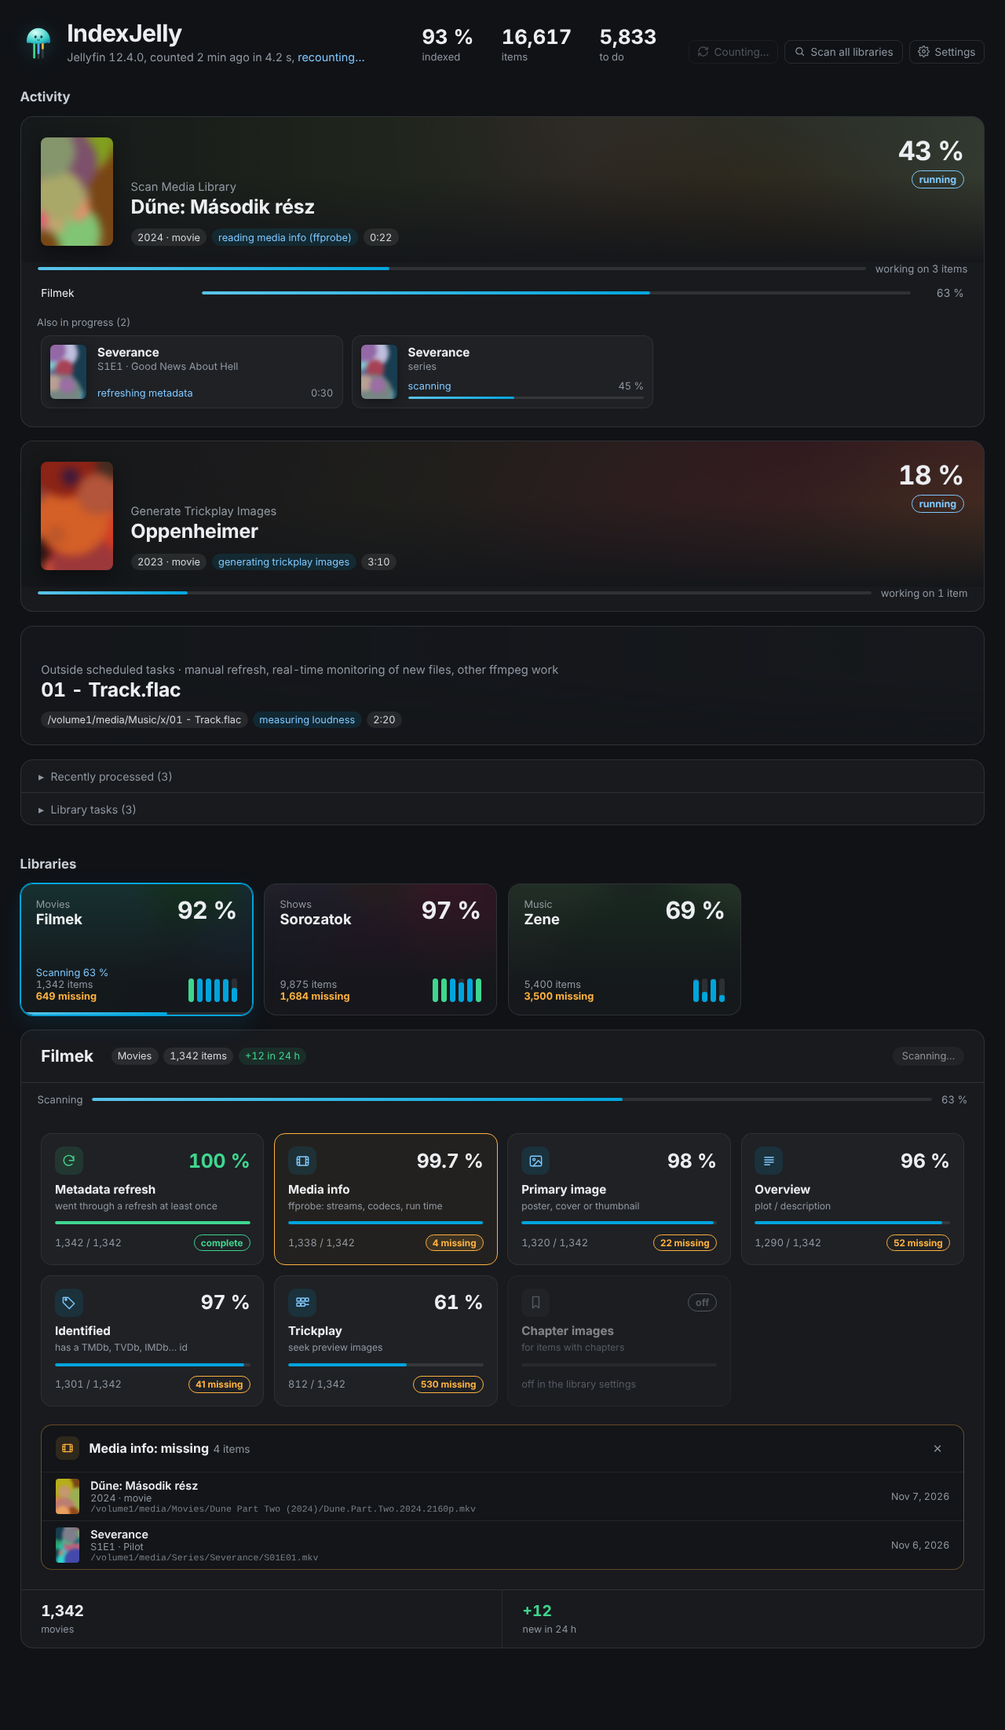
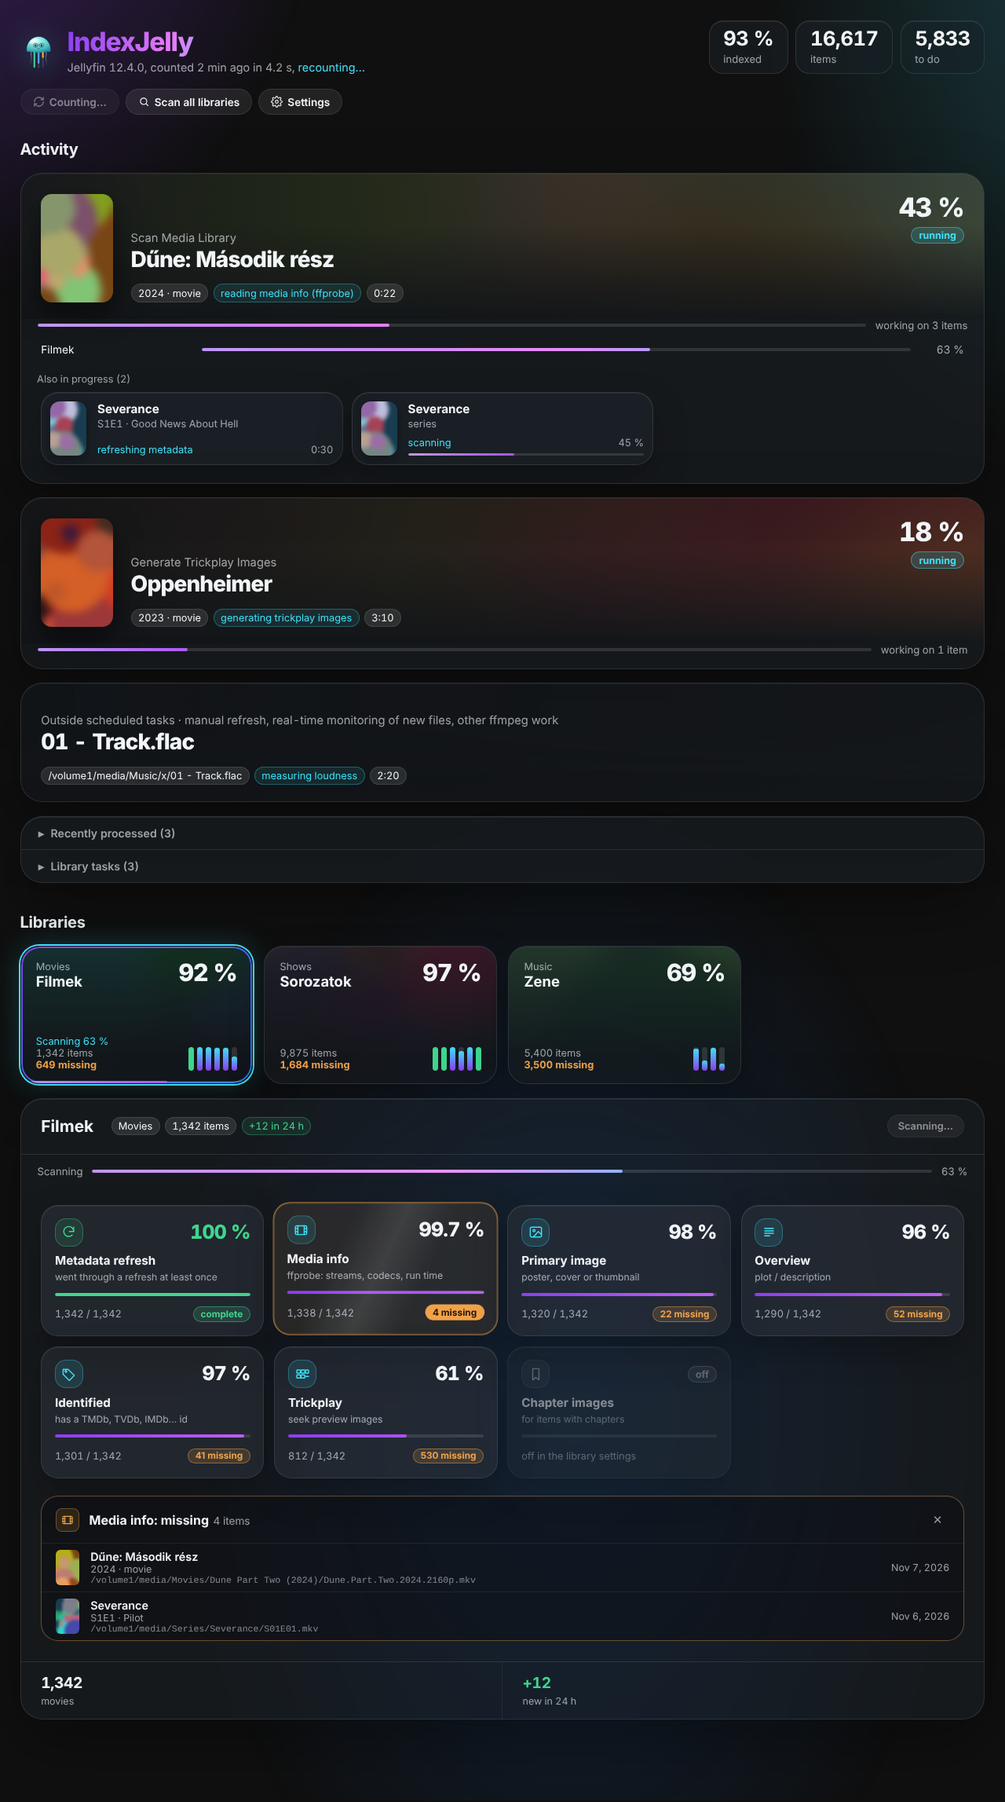
SeeJelly look (v0.5.0)
- Glass panels on a slowly drifting violet/cyan glow, jellyfish mark
  and gradient wordmark in the header, totals as glass tiles
- Pill buttons, switches in the settings, cyan accent, gradient
  progress bars (green when complete) with a running light
- Tiles and cards lift with a sheen on hover; gradient ring on the
  selected library; filled labels
- Phone: totals side by side, smaller buttons; reduced motion respected
- Version 0.5.0.0; README, CHANGELOG (EN/HU) and screenshot

diff --git a/Web/indexjelly.html b/Web/indexjelly.html
@@ -8,17 +8,23 @@
 <div id="IndexJellyPage" data-role="page" class="page type-interior pluginConfigurationPage" data-title="IndexJelly">
 <style>
 #IndexJellyPage {
-    --ij-text: #eceef1;
-    --ij-muted: #9198a1;
-    --ij-soft: #c9ced4;
+    --ij-text: #f2f5f7;
+    --ij-muted: rgba(235,240,245,.64);
+    --ij-soft: rgba(235,240,245,.82);
     --ij-faint: rgba(255,255,255,.07);
     --ij-line: rgba(255,255,255,.10);
-    --ij-surface: rgba(255,255,255,.035);
+    --ij-line-hi: rgba(255,255,255,.22);
+    --ij-surface: rgba(28,33,38,.58);
+    --ij-accent: #3FE0F7;
+    --ij-accent-ink: #061f33;
+    --ij-gradient: linear-gradient(100deg, #8B3FF0 0%, #E57CF7 35%, #3FE0F7 70%, #1F7CF0 100%);
+    --ij-focus: linear-gradient(135deg, #8B3FF0, #1F7CF0);
+    --ij-ease: cubic-bezier(.2, .8, .2, 1);
     --ij-done: #3fd68f;
-    --ij-warn: #ffb23f;
-    --ij-fail: #ff6f61;
-    --ij-op: #7fc8ff;
-    --ij-brand: #00a4dc;
+    --ij-warn: #f0a24a;
+    --ij-fail: #ff6b6b;
+    --ij-op: #3FE0F7;
+    --ij-brand: #3FE0F7;
     --ij-bg: #101216;
 }
 #IndexJellyPage .ij { max-width: 1280px; margin: 0 auto; padding: 1.6em 1.6em 4em; color: var(--ij-text); font-variant-numeric: tabular-nums; }
@@ -219,6 +225,115 @@
 #IndexJellyPage .ij-warn { padding: .8em 1.2em; border-radius: 10px; background: rgba(255,178,63,.1); color: #ffd08a; margin-bottom: 1.5em; font-size: .88em; }
 #IndexJellyPage button:focus-visible, #IndexJellyPage summary:focus-visible, #IndexJellyPage input:focus-visible, #IndexJellyPage a:focus-visible { outline: 2px solid var(--ij-brand); outline-offset: 2px; }
 
+/* ================= SeeJelly look (as in StreamJelly 1.8+): glass panels on a soft violet / cyan glow ================= */
+#IndexJellyPage .ij { position: relative; isolation: isolate; font-family: -apple-system, BlinkMacSystemFont, "SF Pro Text", "Segoe UI", Roboto, "Helvetica Neue", Arial, sans-serif; -webkit-font-smoothing: antialiased; }
+#IndexJellyPage .ij-glow { position: absolute; inset: -2em 0 0; z-index: -1; pointer-events: none; overflow: hidden; border-radius: 0 0 40px 40px; }
+#IndexJellyPage .ij-glow::before { content: ""; position: absolute; inset: -20%;
+    background:
+        radial-gradient(38% 30% at 12% 6%, rgba(139,63,240,.38), transparent 70%),
+        radial-gradient(34% 28% at 92% 14%, rgba(63,224,247,.20), transparent 70%),
+        radial-gradient(40% 34% at 55% 70%, rgba(31,124,240,.22), transparent 70%);
+    animation: ij-drift 40s ease-in-out infinite alternate; }
+@keyframes ij-drift { to { transform: translate(3%, 2%) scale(1.06); } }
+
+/* page header: mark, gradient wordmark, totals as glass tiles, pill buttons */
+#IndexJellyPage .ij-logo { width: 2.9em; height: 2.9em; filter: drop-shadow(0 6px 18px rgba(63,224,247,.35)); }
+#IndexJellyPage .ij-bar h1 { font-size: 2.1em; font-weight: 800; letter-spacing: -.035em; background: var(--ij-gradient); -webkit-background-clip: text; background-clip: text; color: transparent; }
+#IndexJellyPage .ij-totals { gap: .6em; }
+#IndexJellyPage .ij-total { padding: .55em 1.1em .6em; border-radius: 18px; background: var(--ij-surface); border: 1px solid var(--ij-line); backdrop-filter: blur(24px) saturate(1.5); -webkit-backdrop-filter: blur(24px) saturate(1.5); box-shadow: inset 0 1px 0 rgba(255,255,255,.08); }
+#IndexJellyPage .ij-total b { font-weight: 750; letter-spacing: -.02em; }
+#IndexJellyPage .ij-btn { border-radius: 999px; padding: .55em 1.1em; background: rgba(255,255,255,.08); border-color: var(--ij-line); color: var(--ij-text); font-weight: 600; transition: background .25s var(--ij-ease), color .25s var(--ij-ease); }
+#IndexJellyPage .ij-btn:hover { background: rgba(255,255,255,.14); color: var(--ij-text); }
+#IndexJellyPage .ij-btn[aria-expanded="true"] { background: #fff; color: #000; border-color: #fff; }
+#IndexJellyPage .ij-pillbtn { background: rgba(255,255,255,.10); border: 1px solid var(--ij-line); font-weight: 600; padding: .45em 1em; transition: background .25s var(--ij-ease), color .25s var(--ij-ease); }
+#IndexJellyPage .ij-pillbtn:hover:not(:disabled) { background: #fff; color: #000; }
+
+/* settings: glass, switches, round fields */
+#IndexJellyPage .ij-settings { border-radius: 22px; padding: 1.1em 1.4em; background: var(--ij-surface); border-color: var(--ij-line); backdrop-filter: blur(28px) saturate(1.5); -webkit-backdrop-filter: blur(28px) saturate(1.5); box-shadow: inset 0 1px 0 rgba(255,255,255,.08), 0 20px 50px rgba(0,0,0,.3); }
+#IndexJellyPage .ij-settings label { color: var(--ij-text); gap: .6em; cursor: pointer; }
+#IndexJellyPage .ij-settings input[type=checkbox] { appearance: none; -webkit-appearance: none; width: 2.4em; height: 1.4em; margin: 0; border-radius: 999px; background: rgba(255,255,255,.16); position: relative; cursor: pointer; transition: background .25s var(--ij-ease); flex: none; }
+#IndexJellyPage .ij-settings input[type=checkbox]::after { content: ""; position: absolute; top: .15em; left: .15em; width: 1.1em; height: 1.1em; border-radius: 50%; background: #fff; transition: transform .25s var(--ij-ease); box-shadow: 0 1px 3px rgba(0,0,0,.4); }
+#IndexJellyPage .ij-settings input[type=checkbox]:checked { background: var(--ij-focus); }
+#IndexJellyPage .ij-settings input[type=checkbox]:checked::after { transform: translateX(1em); }
+#IndexJellyPage .ij-settings input[type=number] { border-radius: 999px; text-align: center; background: rgba(255,255,255,.08); }
+#IndexJellyPage .ij-save { border-radius: 999px; background: var(--ij-focus); padding: .55em 1.4em; }
+
+/* glass panels */
+#IndexJellyPage .ij-panel { border-radius: 28px; background: var(--ij-surface); border-color: var(--ij-line); backdrop-filter: blur(30px) saturate(1.5); -webkit-backdrop-filter: blur(30px) saturate(1.5); box-shadow: inset 0 1px 0 rgba(255,255,255,.08), 0 30px 80px rgba(0,0,0,.35); }
+#IndexJellyPage .ij-hero-bg { opacity: .5; }
+#IndexJellyPage .ij-hero-bg::after { background: linear-gradient(90deg, rgba(14,16,20,.94) 0%, rgba(14,16,20,.7) 45%, rgba(14,16,20,.35) 100%), linear-gradient(0deg, rgba(22,26,30,1) 0%, rgba(22,26,30,0) 65%); }
+#IndexJellyPage .ij-poster { border-radius: 14px; box-shadow: 0 14px 34px rgba(0,0,0,.5); }
+#IndexJellyPage .ij-name { font-size: 1.75em; font-weight: 800; letter-spacing: -.03em; }
+#IndexJellyPage .ij-hero.short .ij-name { font-size: 1.3em; }
+#IndexJellyPage .ij-chip { background: rgba(255,255,255,.10); border: 1px solid var(--ij-line); color: var(--ij-text); }
+#IndexJellyPage .ij-chip.op { color: var(--ij-accent); background: rgba(63,224,247,.10); border-color: rgba(63,224,247,.30); }
+#IndexJellyPage .ij-chip.new { border-color: rgba(63,214,143,.30); }
+#IndexJellyPage .ij-section > h2 { font-size: 1.25em; font-weight: 750; letter-spacing: -.015em; color: var(--ij-text); }
+#IndexJellyPage .ij-big { font-weight: 800; letter-spacing: -.03em; }
+
+/* labels: filled, with a ring of their own colour */
+#IndexJellyPage .ij-pill { border: 0; background: color-mix(in srgb, currentColor 16%, transparent); box-shadow: inset 0 0 0 1px color-mix(in srgb, currentColor 45%, transparent); padding: .25em .8em; }
+#IndexJellyPage .ij-pill.run { color: var(--ij-accent); }
+#IndexJellyPage button.ij-pill:hover, #IndexJellyPage button.ij-pill[aria-expanded="true"] { background: var(--ij-warn); color: #2a1600; box-shadow: none; }
+
+/* progress: the brand gradient, green once complete */
+#IndexJellyPage .ij-track { background: rgba(255,255,255,.12); }
+#IndexJellyPage .ij-track b { background: var(--ij-gradient); background-size: 100vw 100%; }
+#IndexJellyPage .ij-track.done b { background: var(--ij-done); }
+/* running: the gradient with a light running over it */
+#IndexJellyPage .ij-track.live b { background-image: linear-gradient(90deg, rgba(255,255,255,0) 0, rgba(255,255,255,.45) 50%, rgba(255,255,255,0) 100%), var(--ij-gradient);
+    background-size: 200% 100%, 100vw 100%; background-repeat: no-repeat, no-repeat; animation: ij-shine2 1.6s linear infinite; }
+@keyframes ij-shine2 { from { background-position: 200% 0, 0 0; } to { background-position: -200% 0, 0 0; } }
+#IndexJellyPage .ij-eq i { background: rgba(255,255,255,.12); }
+#IndexJellyPage .ij-eq i b { background: linear-gradient(0deg, #8B3FF0, #3FE0F7); }
+#IndexJellyPage .ij-eq i.done b { background: var(--ij-done); }
+
+/* cards and tiles lift with a sheen, like SeeJelly's focus */
+#IndexJellyPage .ij-card, #IndexJellyPage .ij-tile, #IndexJellyPage .ij-check {
+    border-radius: 22px; background: var(--ij-surface); border-color: var(--ij-line);
+    backdrop-filter: blur(28px) saturate(1.5); -webkit-backdrop-filter: blur(28px) saturate(1.5);
+    box-shadow: inset 0 1px 0 rgba(255,255,255,.08), 0 18px 44px rgba(0,0,0,.28); position: relative; overflow: hidden;
+    transition: transform .35s var(--ij-ease), box-shadow .35s var(--ij-ease), border-color .35s var(--ij-ease); }
+#IndexJellyPage .ij-card::after, #IndexJellyPage .ij-tile::after, #IndexJellyPage .ij-check::after { content: ""; position: absolute; inset: 0; pointer-events: none; opacity: 0; transition: opacity .35s var(--ij-ease);
+    background: linear-gradient(115deg, transparent 30%, rgba(255,255,255,.10) 48%, transparent 66%); }
+#IndexJellyPage .ij-card:hover, #IndexJellyPage .ij-tile:hover, #IndexJellyPage .ij-tile:focus-visible, #IndexJellyPage .ij-check:hover {
+    transform: translateY(-3px) scale(1.01); border-color: var(--ij-line-hi); box-shadow: inset 0 1px 0 rgba(255,255,255,.12), 0 26px 60px rgba(0,0,0,.4); }
+#IndexJellyPage .ij-card:hover::after, #IndexJellyPage .ij-tile:hover::after, #IndexJellyPage .ij-tile:focus-visible::after, #IndexJellyPage .ij-check:hover::after { opacity: 1; }
+#IndexJellyPage .ij-cover { border-radius: 12px; }
+#IndexJellyPage .ij-tile { border-radius: 24px; min-height: 176px; }
+#IndexJellyPage .ij-tile-bg { opacity: .42; }
+#IndexJellyPage .ij-tile-pct { font-weight: 800; letter-spacing: -.035em; }
+/* the selected library: a ring in the focus gradient */
+#IndexJellyPage .ij-tile.sel { border-color: transparent; box-shadow: 0 0 0 2px #3FE0F7, 0 0 34px rgba(63,224,247,.22), 0 26px 60px rgba(0,0,0,.4); }
+#IndexJellyPage .ij-tile.sel::before { content: ""; position: absolute; inset: 0; border-radius: inherit; padding: 2px; pointer-events: none;
+    background: var(--ij-focus); -webkit-mask: linear-gradient(#000 0 0) content-box, linear-gradient(#000 0 0); -webkit-mask-composite: xor; mask-composite: exclude; }
+#IndexJellyPage .ij-check { background: rgba(255,255,255,.045); }
+#IndexJellyPage .ij-check.sel { border-color: rgba(240,162,74,.6); background: rgba(240,162,74,.08); box-shadow: inset 0 0 0 1px rgba(240,162,74,.35), 0 18px 44px rgba(0,0,0,.28); }
+#IndexJellyPage .ij-check.off:hover { transform: none; }
+#IndexJellyPage .ij-ico { border-radius: 14px; background: rgba(63,224,247,.12); color: var(--ij-accent); box-shadow: inset 0 0 0 1px rgba(63,224,247,.3); }
+#IndexJellyPage .ij-check.complete .ij-ico { box-shadow: inset 0 0 0 1px rgba(63,214,143,.35); }
+#IndexJellyPage .ij-check.off .ij-ico { box-shadow: inset 0 0 0 1px var(--ij-line); }
+#IndexJellyPage .ij-check-pct { font-weight: 800; letter-spacing: -.03em; }
+
+/* folded panels, missing list, stats */
+#IndexJellyPage details.ij-more-d > summary { font-weight: 600; }
+#IndexJellyPage details.ij-more-d[open] > summary { color: var(--ij-text); }
+#IndexJellyPage .ij-missing { border-radius: 22px; border-color: rgba(240,162,74,.4); background: rgba(10,12,15,.45); box-shadow: inset 0 1px 0 rgba(255,255,255,.05); }
+#IndexJellyPage .ij-missing-head .ij-ico { box-shadow: inset 0 0 0 1px rgba(240,162,74,.35); }
+#IndexJellyPage .ij-mrow i { border-radius: 6px; }
+#IndexJellyPage .ij-x { border-radius: 50%; }
+#IndexJellyPage .ij-x:hover { background: #fff; color: #000; }
+#IndexJellyPage .ij-stat b { font-weight: 750; letter-spacing: -.02em; }
+#IndexJellyPage .ij-idle-dot { background: var(--ij-accent); box-shadow: 0 0 0 5px rgba(63,224,247,.14), 0 0 18px rgba(63,224,247,.5); }
+#IndexJellyPage .ij-empty { border-radius: 28px; background: var(--ij-surface); border: 1px solid var(--ij-line); backdrop-filter: blur(28px); -webkit-backdrop-filter: blur(28px); }
+#IndexJellyPage .ij-error, #IndexJellyPage .ij-warn { border-radius: 20px; }
+#IndexJellyPage button:focus-visible, #IndexJellyPage summary:focus-visible, #IndexJellyPage input:focus-visible, #IndexJellyPage a:focus-visible { outline: 2px solid var(--ij-accent); outline-offset: 3px; }
+@media (prefers-reduced-motion: reduce) {
+    #IndexJellyPage .ij-glow::before, #IndexJellyPage .ij-track.live b { animation: none; }
+    #IndexJellyPage .ij-card, #IndexJellyPage .ij-tile, #IndexJellyPage .ij-check, #IndexJellyPage .ij-card::after, #IndexJellyPage .ij-tile::after, #IndexJellyPage .ij-check::after { transition: none; }
+    #IndexJellyPage .ij-card:hover, #IndexJellyPage .ij-tile:hover, #IndexJellyPage .ij-tile:focus-visible, #IndexJellyPage .ij-check:hover { transform: none; }
+}
+
 @media (max-width: 760px) {
     #IndexJellyPage .ij { padding: 1em .8em 3em; }
     #IndexJellyPage .ij-totals { margin-left: 0; gap: 1.6em; }
@@ -251,24 +366,21 @@
     #IndexJellyPage .ij-check.off .ij-check-foot > span:first-child { display: inline; }
     #IndexJellyPage .ij-check-foot { justify-content: flex-start; }
     #IndexJellyPage .ij-logo { width: 38px; height: 38px; }
+    #IndexJellyPage .ij-totals { width: 100%; display: grid; grid-template-columns: repeat(3, minmax(0, 1fr)); }
+    #IndexJellyPage .ij-total { padding: .5em .8em; }
+    #IndexJellyPage .ij-total b { font-size: 1.3em; white-space: nowrap; }
+    #IndexJellyPage .ij-btn { padding: .45em .85em; font-size: .8em; }
+    #IndexJellyPage .ij-bar h1 { font-size: 1.8em; }
 }
 </style>
 
 <div data-role="content">
 <div class="content-primary ij">
+    <div class="ij-glow" aria-hidden="true"></div>
 
     <header class="ij-bar">
         <div class="ij-brand">
-            <svg class="ij-logo" viewBox="0 0 512 512" aria-hidden="true">
-                <defs><radialGradient id="ijDome" cx="38%" cy="28%" r="78%"><stop offset="0" stop-color="#e2fffb"/><stop offset=".38" stop-color="#7fe6dc"/><stop offset=".78" stop-color="#2ec4c4"/><stop offset="1" stop-color="#1f8fb0"/></radialGradient></defs>
-                <g fill="none" stroke-linecap="round" stroke-width="30">
-                    <path stroke="#ffffff" stroke-opacity=".14" d="M196 290 V480M256 296 V490M316 290 V480"/>
-                    <path stroke="#3fd68f" d="M196 290 V480"/><path stroke="#5aa9ff" d="M256 296 V420"/><path stroke="#ffb23f" d="M316 290 V350"/>
-                </g>
-                <path fill="url(#ijDome)" d="M88 252C88 140 164 64 256 64s168 76 168 188c0 22-20 30-38 22-22-10-40 12-64 6-22-6-40 16-66 10-26 6-44-16-66-10-24 6-42-16-64-6-18 8-38 0-38-22z"/>
-                <g fill="#123a4a"><ellipse cx="214" cy="190" rx="16" ry="19"/><ellipse cx="298" cy="190" rx="16" ry="19"/></g>
-                <path d="M240 232q16 14 32 0" fill="none" stroke="#123a4a" stroke-width="9" stroke-linecap="round"/>
-            </svg>
+            <svg class="ij-logo" xmlns="http://www.w3.org/2000/svg" viewBox="0 0 512 512" aria-hidden="true" focusable="false"> <defs> <radialGradient id="ij-dome" cx="38%" cy="28%" r="78%"> <stop offset="0" stop-color="#e2fffb"/> <stop offset=".38" stop-color="#7fe6dc"/> <stop offset=".78" stop-color="#2ec4c4"/> <stop offset="1" stop-color="#1f8fb0"/> </radialGradient> <linearGradient id="ij-rim" x1="0" y1="0" x2="0" y2="1"> <stop offset="0" stop-color="#ffffff" stop-opacity="0"/> <stop offset="1" stop-color="#145f86" stop-opacity=".35"/> </linearGradient> <linearGradient id="ij-tP" gradientUnits="userSpaceOnUse" x1="0" y1="280" x2="0" y2="470"> <stop offset="0" stop-color="#d6fff8" stop-opacity=".85"/><stop offset="1" stop-color="#ffffff" stop-opacity="0"/> </linearGradient> <filter id="ij-soft" x="-20%" y="-20%" width="140%" height="140%"><feGaussianBlur stdDeviation="6"/></filter> </defs> <g fill="none" stroke="url(#ij-tP)" stroke-width="7" stroke-linecap="round"> <path d="M150 272 C138 320 166 350 150 395 C138 430 156 450 146 470"/> <path d="M362 272 C374 320 346 350 362 395 C374 430 356 450 366 470"/> </g> <g fill="none" stroke-linecap="round" stroke-width="22"> <path stroke="#ffffff" stroke-opacity=".12" d="M196 280 V488"/> <path stroke="#ffffff" stroke-opacity=".12" d="M256 288 V496"/> <path stroke="#ffffff" stroke-opacity=".12" d="M316 280 V488"/> <path stroke="#3fd68f" d="M196 280 V488"/> <path stroke="#5aa9ff" d="M256 288 V430"/> <path stroke="#ffb23f" d="M316 280 V350"/> </g> <path fill="url(#ij-dome)" d="M88 252 C88 140 164 64 256 64 C348 64 424 140 424 252 C424 274 404 282 386 274 C364 264 346 286 322 280 C300 274 282 296 256 290 C230 296 212 274 190 280 C166 286 148 264 126 274 C108 282 88 274 88 252 Z"/> <path fill="url(#ij-rim)" d="M88 252 C88 140 164 64 256 64 C348 64 424 140 424 252 C424 274 404 282 386 274 C364 264 346 286 322 280 C300 274 282 296 256 290 C230 296 212 274 190 280 C166 286 148 264 126 274 C108 282 88 274 88 252 Z"/> <ellipse cx="186" cy="124" rx="62" ry="30" fill="#fff" opacity=".55" transform="rotate(-24 186 124)" filter="url(#ij-soft)"/> <ellipse cx="170" cy="120" rx="20" ry="9" fill="#fff" opacity=".9" transform="rotate(-28 170 120)"/> <ellipse cx="200" cy="216" rx="20" ry="11" fill="#ff8fb8" opacity=".4"/> <ellipse cx="312" cy="216" rx="20" ry="11" fill="#ff8fb8" opacity=".4"/> <g fill="#123a4a"> <ellipse cx="214" cy="184" rx="14" ry="17"/> <ellipse cx="298" cy="184" rx="14" ry="17"/> </g> <g fill="#fff"> <circle cx="219" cy="178" r="5"/><circle cx="303" cy="178" r="5"/> </g> <g fill="none" stroke="#123a4a" stroke-width="6"> <circle cx="214" cy="184" r="30"/> <circle cx="298" cy="184" r="30"/> <path d="M244 180 Q256 172 268 180" stroke-linecap="round"/> </g> <path d="M242 226 Q256 240 270 226" fill="none" stroke="#123a4a" stroke-width="6" stroke-linecap="round"/> </svg>
             <div>
                 <h1>IndexJelly</h1>
                 <div class="ij-sub" id="ijStatus" data-i18n="loading">Loading…</div>

diff --git a/CHANGELOG.md b/CHANGELOG.md
@@ -8,6 +8,15 @@ Format: [Keep a Changelog](https://keepachangelog.com/). Versions follow the plu
 
 ## English
 
+### [0.5.0] – 2026-11-22
+#### Changed
+- New look, borrowed from SeeJelly as in StreamJelly 1.8: glass panels with soft blur and rounded corners on a slowly drifting violet / cyan glow, the IndexJelly jellyfish and a gradient wordmark in the page header, totals as glass tiles, pill-shaped buttons (an open one is white), switches instead of checkboxes in the settings, cyan accent.
+- Progress bars and the small bars on the library tiles in the brand gradient (violet → pink → cyan → blue), green once complete; running bars have a light running over them.
+- Library tiles, check cards and item cards lift and get a light sheen when hovered; the selected library has a gradient ring.
+- Labels are filled with a ring of their own colour; *N missing* turns solid when its list is open.
+- On a phone the totals sit side by side and the buttons are smaller.
+- Motion is off when the system asks for reduced motion.
+
 ### [0.4.0] – 2026-11-21
 #### Changed
 - Libraries: an overview row of tiles, one per library, with its image, the indexed percentage, a small bar per check and how many are missing; a running scan shows on the tile. Clicking a tile opens that library below. The selected library is remembered in the browser.
@@ -57,6 +66,15 @@ Format: [Keep a Changelog](https://keepachangelog.com/). Versions follow the plu
 ---
 
 ## Magyar
+
+### [0.5.0] – 2026-11-22
+#### Változott
+- Új megjelenés a SeeJelly mintájára, ahogy a StreamJelly 1.8-ban: üvegpanelek lágy elmosással és lekerekített sarkokkal, lassan mozgó lila–cián fényen; a fejlécben az IndexJelly medúza és színátmenetes felirat, az összesítők üvegcsempéken, pill alakú gombok (a nyitott fehér), kapcsolók a beállításokban jelölőnégyzetek helyett, cián kiemelőszín.
+- A haladásjelzők és a könyvtár-csempék kis sávjai a márka színátmenetében (lila → rózsaszín → cián → kék), készre zöldek; a futó sávokon fény fut végig.
+- A könyvtár-csempék, az ellenőrzés- és elemkártyák rámutatáskor kissé megemelkednek és felcsillannak; a kiválasztott könyvtárat színátmenetes keret jelöli.
+- A címkék kitöltöttek, saját színű kerettel; az *N hiányzik* teli színű lesz, amikor a listája nyitva van.
+- Telefonon az összesítők egymás mellett vannak, a gombok kisebbek.
+- Ha a rendszer csökkentett mozgást kér, az animációk kikapcsolnak.
 
 ### [0.4.0] – 2026-11-21
 #### Változott

diff --git a/README.md b/README.md
@@ -12,7 +12,7 @@
 
 IndexJelly is a Jellyfin server plugin that shows **how far the server is with indexing your libraries**: which scans and library tasks are running right now, and for every library how many items already have media info, metadata, images, trickplay and chapter images. You can open a list of the items that are still missing any of these.
 
-The page lives in the Jellyfin dashboard (left menu → *IndexJelly*). Only administrators can see it. The interface follows the Jellyfin display language: Hungarian for Hungarian, English for everything else.
+The page lives in the Jellyfin dashboard (left menu → *IndexJelly*) and shares its look with StreamJelly and SeeJelly: glass panels on a soft violet / cyan glow. Only administrators can see it. The interface follows the Jellyfin display language: Hungarian for Hungarian, English for everything else.
 
 ### Features
 
@@ -97,7 +97,7 @@ Copy the `IndexJelly_<version>` folder (or the unzipped release) into the Jellyf
 
 Az IndexJelly egy Jellyfin szerver plugin, amely megmutatja, **hol tart a szerver a könyvtárak indexelésével**: milyen szkennelés és könyvtári feladat fut éppen, és könyvtáranként hány elemnél van már mediainfó, metaadat, kép, trickplay és fejezetkép. Ami még hiányzik, azt listában is meg tudod nézni.
 
-Az oldal a Jellyfin vezérlőpultján érhető el (bal oldali menü → *IndexJelly*), és csak rendszergazda látja. A felület a Jellyfin megjelenítési nyelvét követi: magyar nyelvnél magyarul, minden más nyelvnél angolul jelenik meg.
+Az oldal a Jellyfin vezérlőpultján érhető el (bal oldali menü → *IndexJelly*), a megjelenése a StreamJelly-é és a SeeJelly-é: üvegpanelek lágy lila–cián fényen. Csak rendszergazda látja. A felület a Jellyfin megjelenítési nyelvét követi: magyar nyelvnél magyarul, minden más nyelvnél angolul jelenik meg.
 
 ### Funkciók
 
